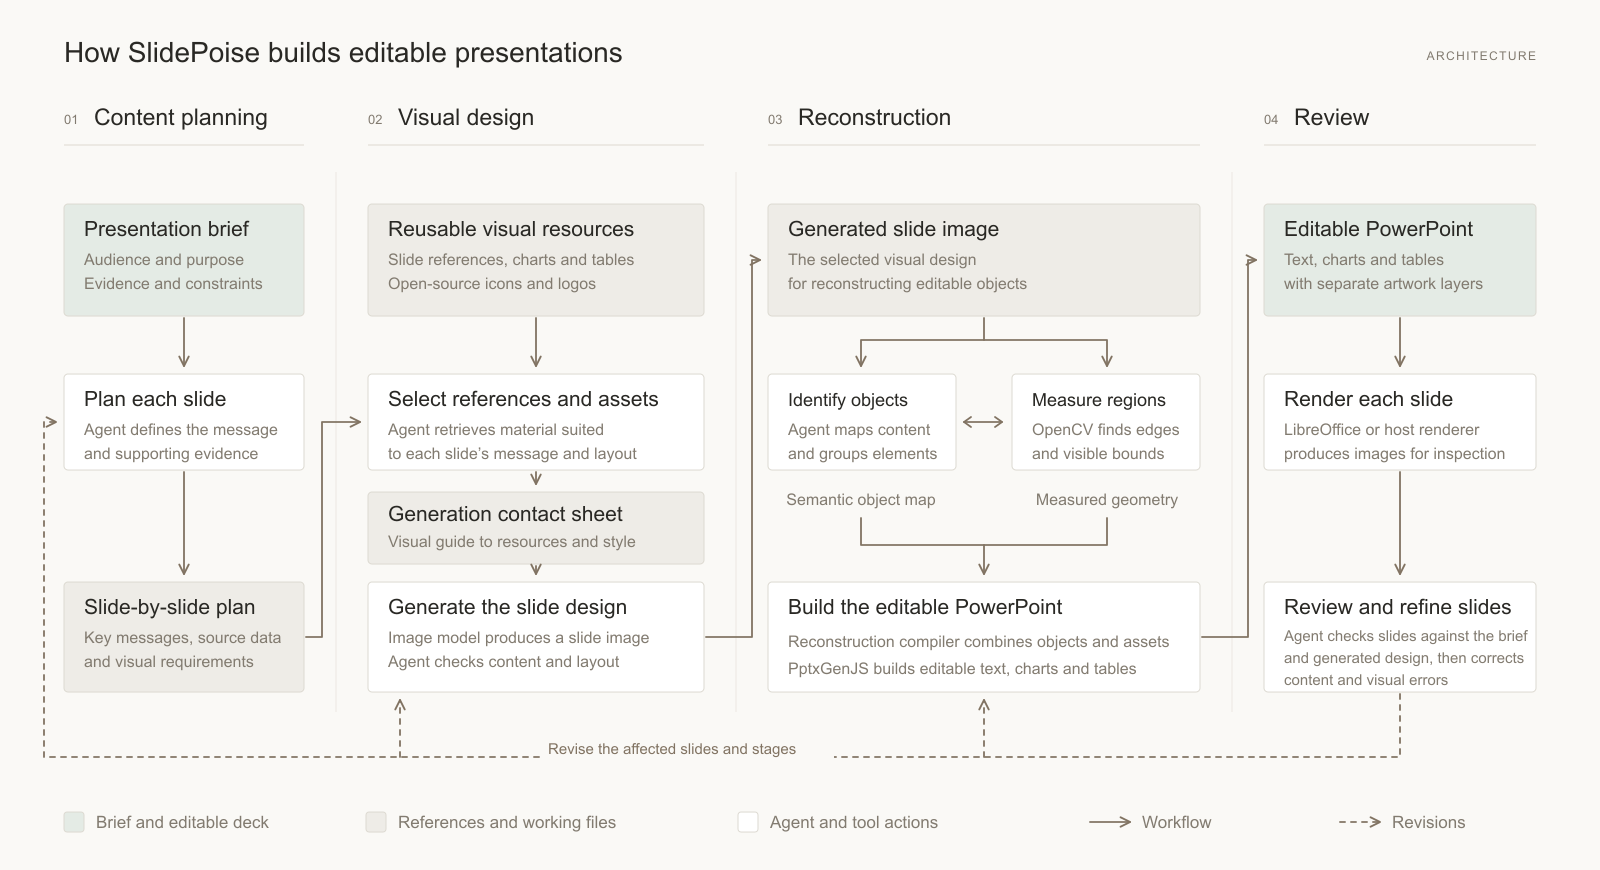
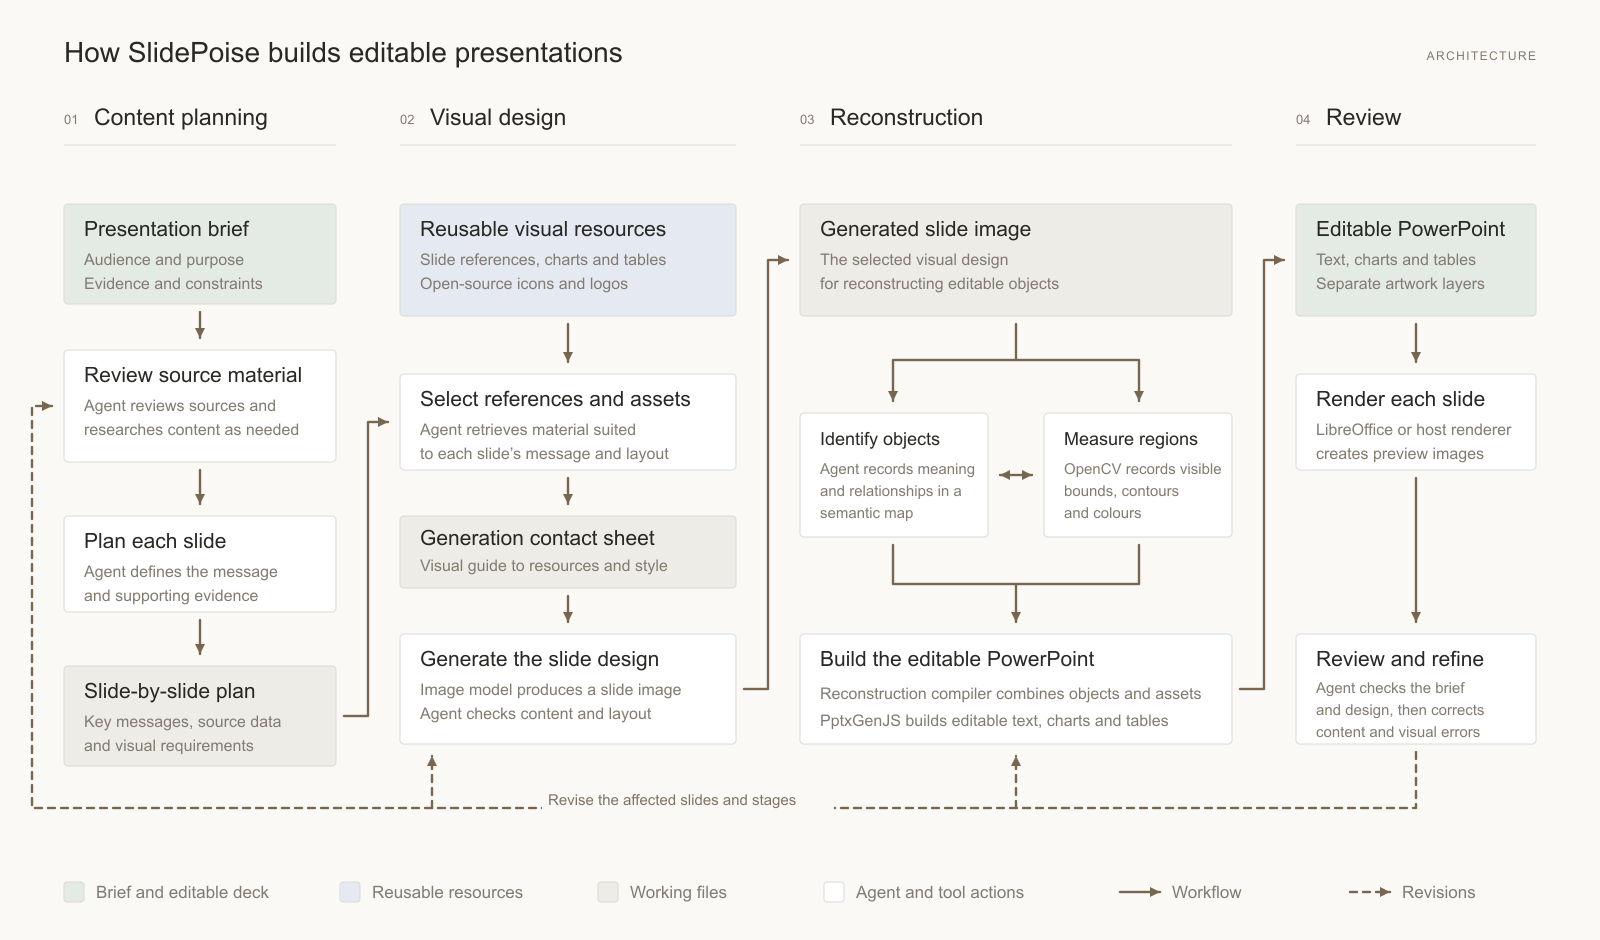
Clarify content research and balance the architecture diagram

diff --git a/slidepoise/SKILL.md b/slidepoise/SKILL.md
@@ -93,7 +93,7 @@ Read `references/deck-orchestration.md` for the complete contract.
 
 ## Core workflow
 
-1. Understand the source, audience, purpose, reading context, desired scope, evidence, constraints, and user assets. Follow the intent guidance in `references/workflow.md` to connect claims to their support, preserve uncertainty and define what the visual needs to explain before generating it.
+1. Understand the source material, brief, audience, purpose, reading context, desired scope, evidence, constraints, and user assets. Research missing facts, examples or context when they would materially help the narrative and intended outcome. Follow `references/deck-orchestration.md` for source review and content research, then use the intent guidance in `references/workflow.md` to connect claims to their support and define what the visual needs to explain.
 2. Create or revise the deck outline. For a single slide, keep this compact. For a deck, plan the narrative arc and each slide's communication job before detailed slide composition.
 3. Resolve the Profile and current-presentation overrides once. For every active slide, automatically retrieve indexed reference candidates using its communication job, semantic relationships and role. Inspect the actual pages and make a purpose-specific selection before generation. Shared style references do not replace this page-local search. Discover relevant assets in the supplied project or source material as well as the enabled libraries. When recognizable organizations, products or evidence objects carry the argument, actively research exact assets that could aid recognition or explanation. Compare concrete candidates before dismissing them. Keep explicit user obligations distinct from the Agent's proposals. An empty selection leaves the design question open to later evidence. Follow `references/resource-library.md` for candidate inspection and reconsideration, and `references/visual-exploration.md` for choosing a meaningful composition.
 4. Decide the useful collaboration checkpoints. A sample slide is often helpful for a large or visually uncertain deck. It is optional.

diff --git a/slidepoise/references/deck-orchestration.md b/slidepoise/references/deck-orchestration.md
@@ -4,6 +4,14 @@
 
 A presentation is an ordered set of one or more slides. The Agent infers the requested scope from conversation. There is no user-facing single-page or multi-page mode switch.
 
+## Understand the material and research useful content
+
+Before planning the slide sequence, read the supplied brief and source material to understand the audience, intended outcome, central question and constraints. Identify what the material establishes and what the reader still needs to understand. Useful additions may include background, definitions, examples, comparisons or evidence that supports the argument.
+
+When such content is missing and research is within the task's scope, use available search and source-reading tools to investigate it. Give each research question a clear role in the presentation. Research may develop the narrative as well as verify existing claims. Follow credible sources, preferably primary sources, read the relevant material and retain source links or file locations with the claims and data they support. Preserve dates, units, populations and qualifications. Distinguish sourced findings from estimates, assumptions and Agent inferences in the outline and slide intents, with reader-facing attribution where needed.
+
+Use the findings to revise the argument and slide sequence. Return to research if planning or review reveals another consequential gap. Respect requests to use only supplied material, reproduce exact copy or defer research. If essential information is private or cannot be established, ask for it or retain the uncertainty. Never invent supporting content or seek only evidence that confirms a preferred conclusion. Content research develops what the presentation says. Visual-reference retrieval later guides how each slide communicates it.
+
 ## Deck outline
 
 `work/deck-outline.json` is the live narrative contract. Start from `schemas/deck-outline.example.json`. Its `slides` array is the current order. Each slide has a stable ID that does not depend on its position.

diff --git a/README.md b/README.md
@@ -14,7 +14,7 @@ Share your brief, source material and preferred style with your Agent. You can r
 
 | Stage | What you contribute | What the Agent does |
 | --- | --- | --- |
-| Content planning | Audience, purpose, evidence and required messages | Develops the argument and slide sequence |
+| Content planning | Audience, purpose, evidence and required messages | Reviews sources, researches useful content and develops the slide sequence |
 | Visual design | Brand assets, style preferences and feedback | Selects references and assets, prepares a contact sheet, then generates and reviews slide images |
 | Reconstruction | Feedback on content or design as needed | Interprets the image, measures objects with OpenCV and builds editable PowerPoint slides |
 | Review | Changes you want in the finished presentation | Inspects the rendered deck, corrects differences and delivers the editable file |
@@ -75,7 +75,7 @@ The Agent makes the content and design decisions. Local tools provide measuremen
 
 ### Plan the content
 
-You and the Agent establish the audience, message and supporting material. The Agent develops the slide sequence and identifies what each slide needs to communicate.
+The Agent reviews your brief and source material to understand the audience and intended outcome. Where useful content is missing, it researches facts, examples and context, retaining sources for the claims they support. These findings inform the argument, slide sequence and purpose of each slide.
 
 ### Generate slide images guided by content and references
 

diff --git a/slidepoise/references/workflow.md b/slidepoise/references/workflow.md
@@ -6,6 +6,8 @@ This page-local workflow is reusable inside a one-slide request or a larger deck
 
 Author `work/slide-intent.json` from the corresponding entry in `work/deck-outline.json`. Capture the audience question, dominant message, exact content, semantic relationships, hierarchy, evidence and source obligations, required assets, exclusions, assumptions, and unresolved questions that affect this page.
 
+If the page needs facts, examples or context absent from the supplied material, follow the content-research guidance in `deck-orchestration.md` before settling its message. Carry useful findings and their sources into the outline and intent. Revisit the argument when the evidence changes it.
+
 For an opening, section transition or closing, read the sections and navigation guidance in `deck-orchestration.md`. Derive its communication job and copy from the actual deck, then carry the relevant shared navigation roles into this page's normal workflow.
 
 Do not force a numbered process unless the information is sequential. Keep `information_structure` semantic. A list of content categories does not mandate columns, cards or table rows. Develop an Agent-proposed layout after resource inspection and visual exploration, then record it in `style_direction` with its reasoning. Preserve a layout the user actually requires.
